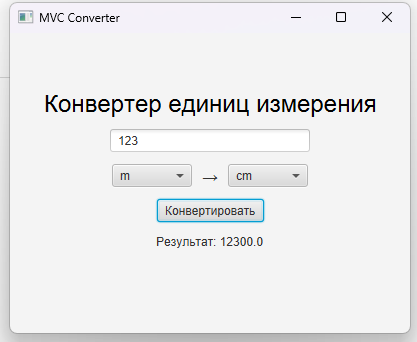
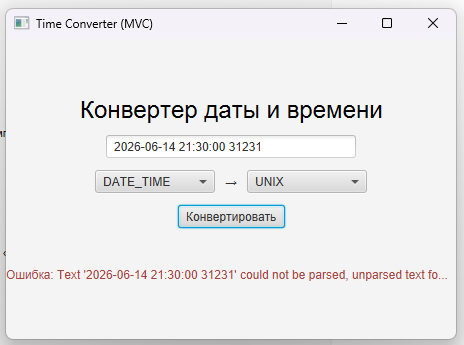
добавление документации

diff --git a/README.md b/README.md
@@ -10,28 +10,28 @@
 
 ## Цель работы
 
-Целью данной лабораторной работы является освоение базовых компонентов JavaFX, а также практическое применение архитектурного подхода Model–View–Controller (MVC) при разработке настольного приложения.
+Целью данной лабораторной работы является освоение базовых компонентов JavaFX, а также практическое применение архитектурного подхода Model–View–Controller (MVC) при разработке настольного приложения с обработкой и преобразованием временных форматов.
 
 ---
 
 ## Задание
 
-В рамках работы необходимо разработать графическое приложение «Конвертер», реализующее преобразование значений между различными единицами измерения.
+В рамках работы необходимо разработать графическое приложение «Конвертер», реализующее преобразование значений между различными форматами представления даты и времени.
 
 ### Основные требования:
 
-- Поддержка не менее 3 единиц измерения
-- Корректная работа с дробными числами
+- Поддержка не менее 3 форматов представления данных
+- Корректная обработка пользовательского ввода
 - Обработка ошибок ввода пользователя
 - Использование архитектуры MVC
 
 ### Вариант 15:
 
 - Типы конвертации:
-    - Дата/Время
-    - Unix Timestamp
-    - Человеческий формат (“через 2 дня”)
-- Особенность: форматирование времени
+  - Дата/Время (формат `yyyy-MM-dd HH:mm:ss`)
+  - Unix Timestamp
+  - Человеческий формат (“через 2 дня”, “через 5 часов”)
+- Особенность: преобразование временных значений между различными представлениями с учетом текущего времени системы
 
 ---
 
@@ -41,8 +41,10 @@
 
 Модель представлена классом `ConverterModel` и отвечает за:
 
-- хранение коэффициентов преобразования
-- выполнение вычислений
+- преобразование между различными форматами времени
+- работу с `Instant`, `LocalDateTime` и системным временем
+- реализацию логики парсинга человеческого формата времени
+- преобразование в Unix Timestamp и обратно
 - независимость от пользовательского интерфейса
 
 ---
@@ -52,12 +54,13 @@
 Представление реализовано через `FXML` файл (`ConverterView.fxml`) и содержит:
 
 - `TextField` для ввода значения
-- `ComboBox` для выбора единиц измерения (from / to)
+- `ComboBox` для выбора исходного формата (from)
+- `ComboBox` для выбора целевого формата (to)
 - `Button` для запуска конвертации
 - `Label` для вывода результата
 - `Label` для отображения ошибок
 
-Для стилизации интерфейса дополнительно подключён BootstrapFX, что улучшает внешний вид приложения.
+Интерфейс оформлен с использованием BootstrapFX. Реализована карточная структура (card layout), обеспечивающая визуальное разделение логических блоков: заголовок, ввод данных и результат.
 
 ---
 
@@ -68,9 +71,10 @@
 - связь View и Model
 - обработку пользовательских событий
 - валидацию ввода
+- обработку ошибок конвертации
 - обновление интерфейса
 
-Контроллер реализует интерфейс `Initializable`.
+Контроллер реализует интерфейс `Initializable` и выполняет инициализацию значений ComboBox.
 
 ---
 
@@ -80,44 +84,56 @@
 
 ### Корректные данные:
 
-* Ввод числа `10`
-* Выбор единиц измерения (m → cm)
+* Ввод формата `2026-06-14 21:30:00`
+* Конвертация в Unix Timestamp
 * Результат отображается корректно
 
-### Дробные числа:
+### Unix Timestamp:
 
-* Ввод `2.5`
-* Конвертация выполняется без ошибок
+* Ввод числового значения времени
+* Конвертация в формат даты/времени
+* Корректное отображение результата
+
+### Человеческий формат:
+
+* Ввод `через 2 дня`
+* Преобразование в дату/время относительно текущего момента системы
 
 ### Ошибочные данные:
 
 * Пустой ввод → сообщение об ошибке
-* Ввод текста → сообщение "Введите число"
-* Отрицательные значения → сообщение "Число должно быть > 0"
+* Некорректный формат даты → сообщение об ошибке парсинга
+* Неверный человеческий формат → сообщение об ошибке преобразования
 
 ---
 
 ## Интерфейс приложения
 
 Интерфейс разработан с использованием JavaFX и BootstrapFX.
+
 Он включает:
 
-* поля ввода и выбора единиц
+* поле ввода значения
+* выбор формата "from" и "to"
 * кнопку конвертации
 * область вывода результата
 * область отображения ошибок
+* карточную структуру интерфейса (header / input / result)
 
-### Пример успешной конвертации:
-
-![img.png](img.png)
-
-### Пример ошибоной конвертации текста:
+### Пример успешной конвертации 1:
 
 ![img_1.png](img_1.png)
 
+### Пример успешной конвертации 2:
+![img_2.png](img_2.png)
+
+### Пример ошибочной конвертации:
+
+![img.png](img.png)
+
 ### Пример пустого ввода при конвертации:
 
-![img_2.png](img_2.png)
+![img_3.png](img_3.png)
 
 ---
 
@@ -129,9 +145,11 @@
 
 * изучены основы JavaFX
 * реализовано разделение логики по MVC
-* разработана модель конвертации
+* разработана модель преобразования временных форматов
+* реализована обработка Unix Timestamp и DateTime
+* реализован парсинг человеческого формата времени
 * реализована валидация пользовательского ввода
 * создан графический интерфейс с использованием FXML
-* подключена стилизация через BootstrapFX
+* выполнено оформление интерфейса с использованием BootstrapFX и карточной структуры
 
 Таким образом, цель работы была достигнута.